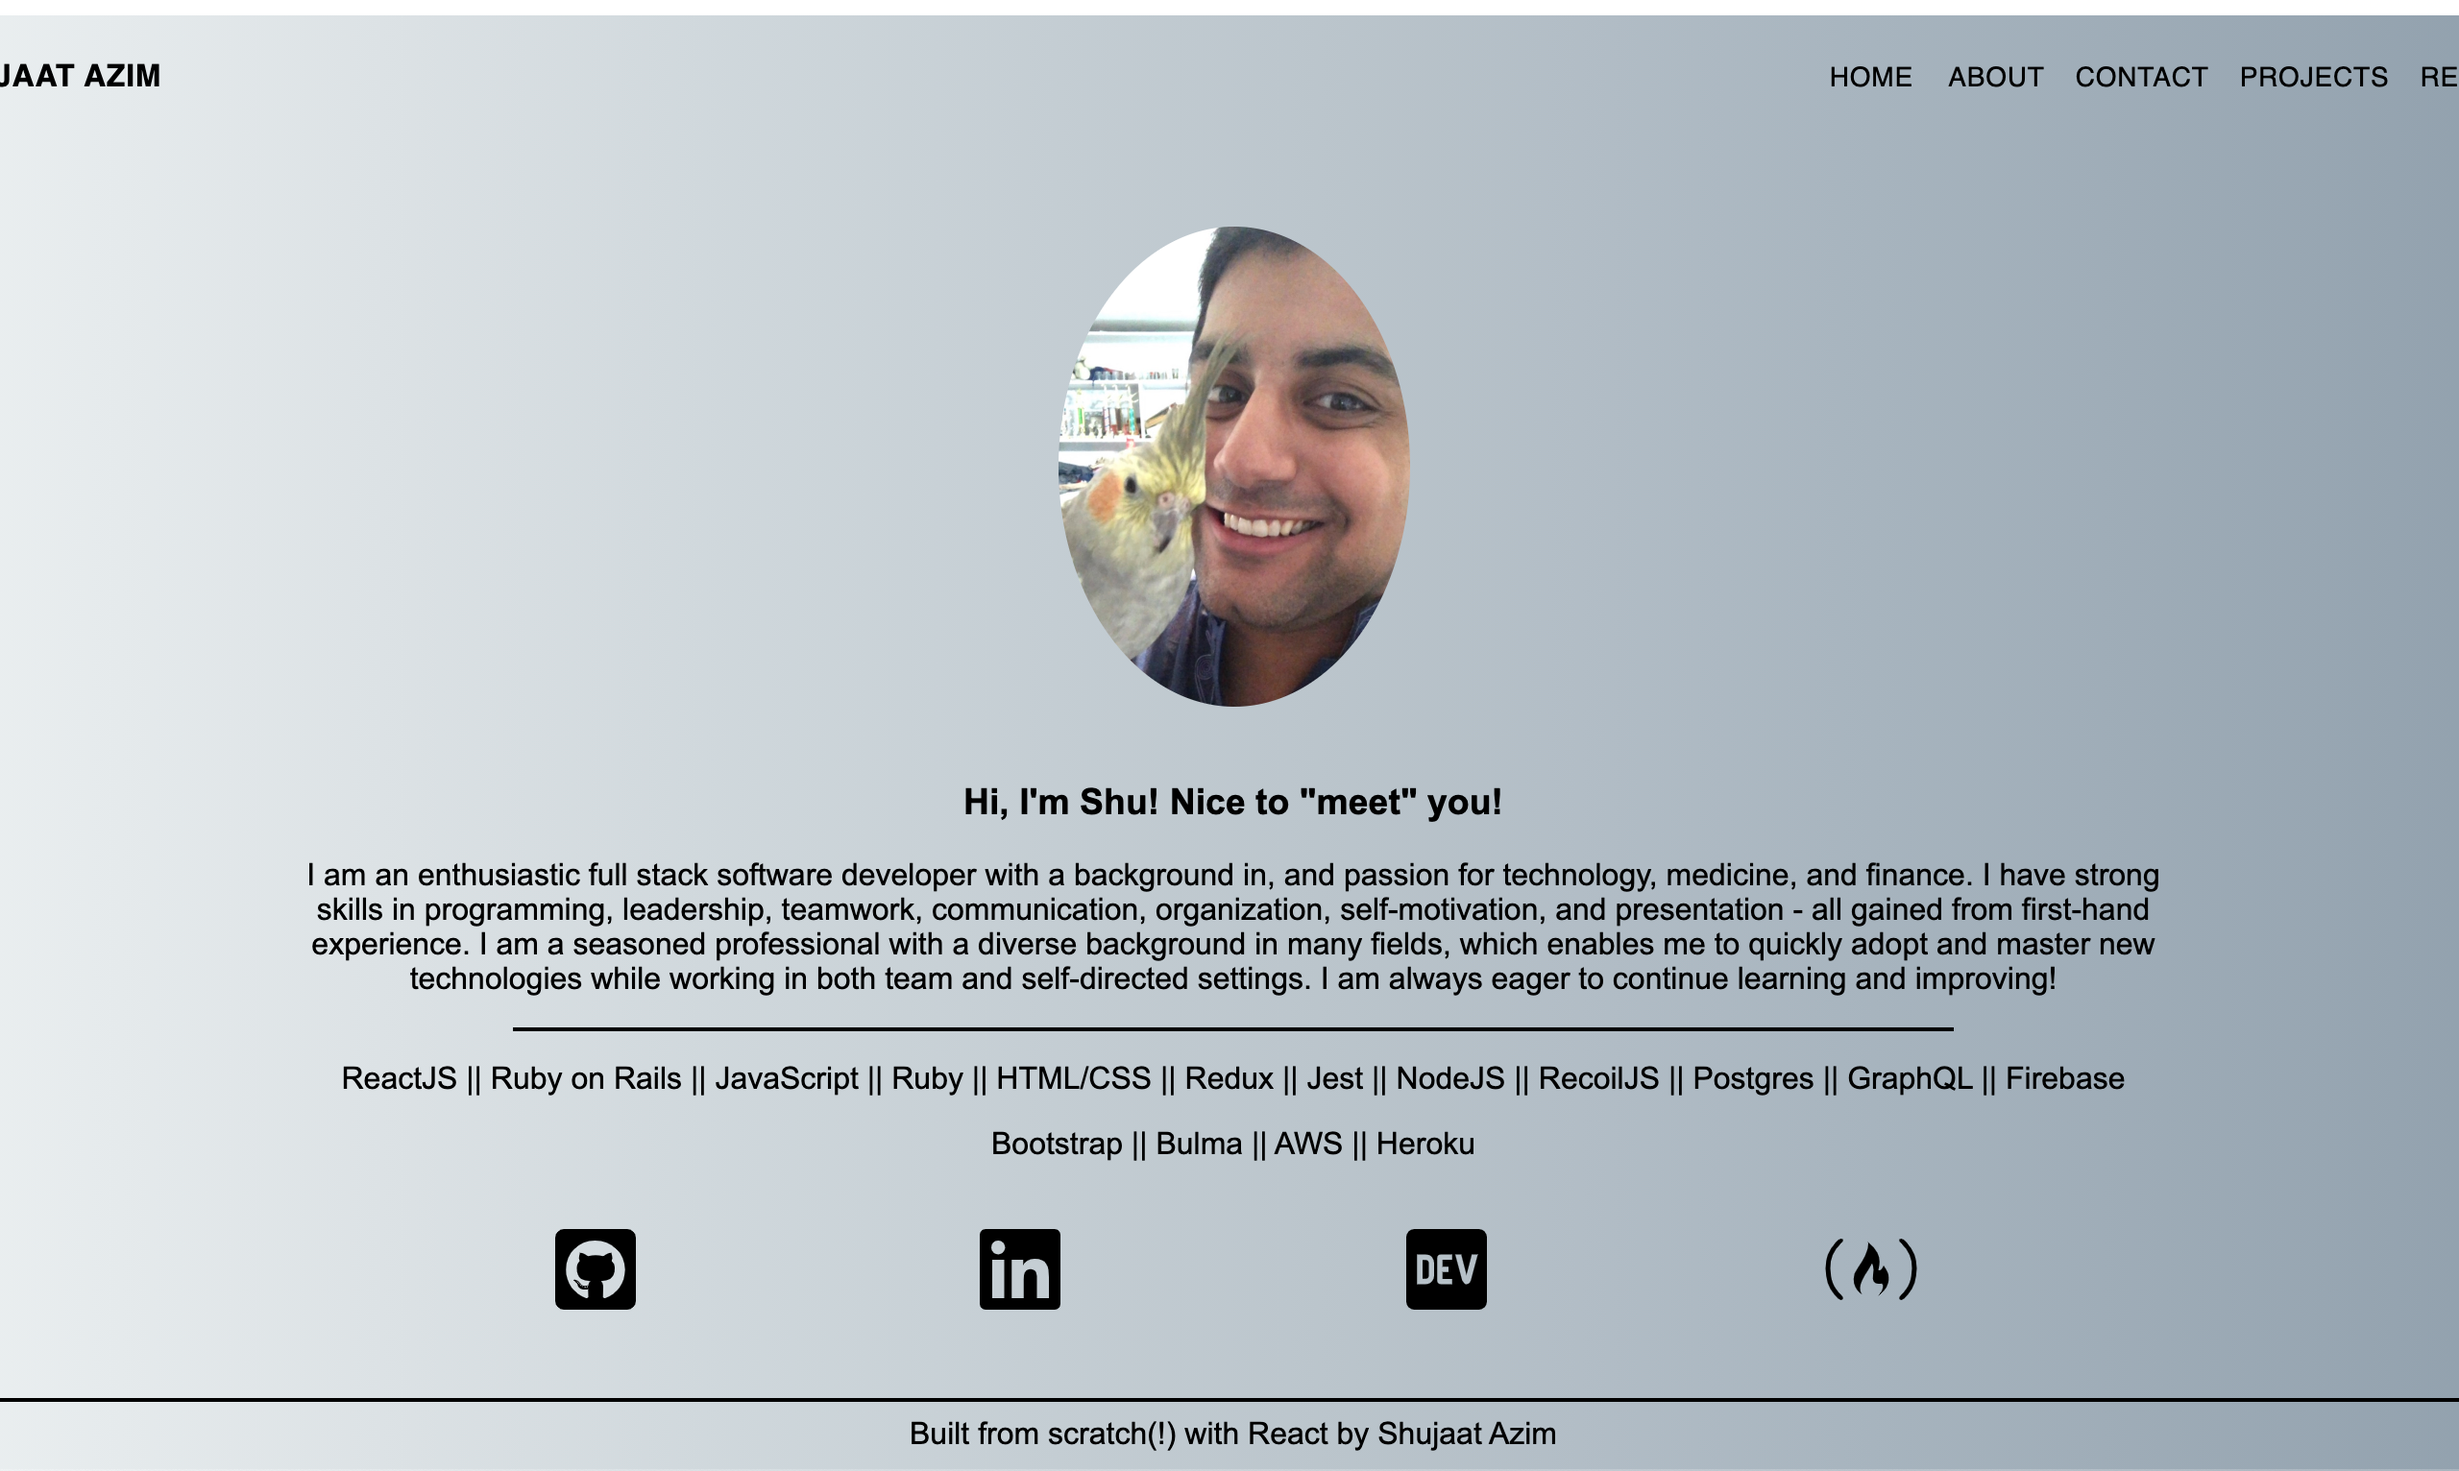
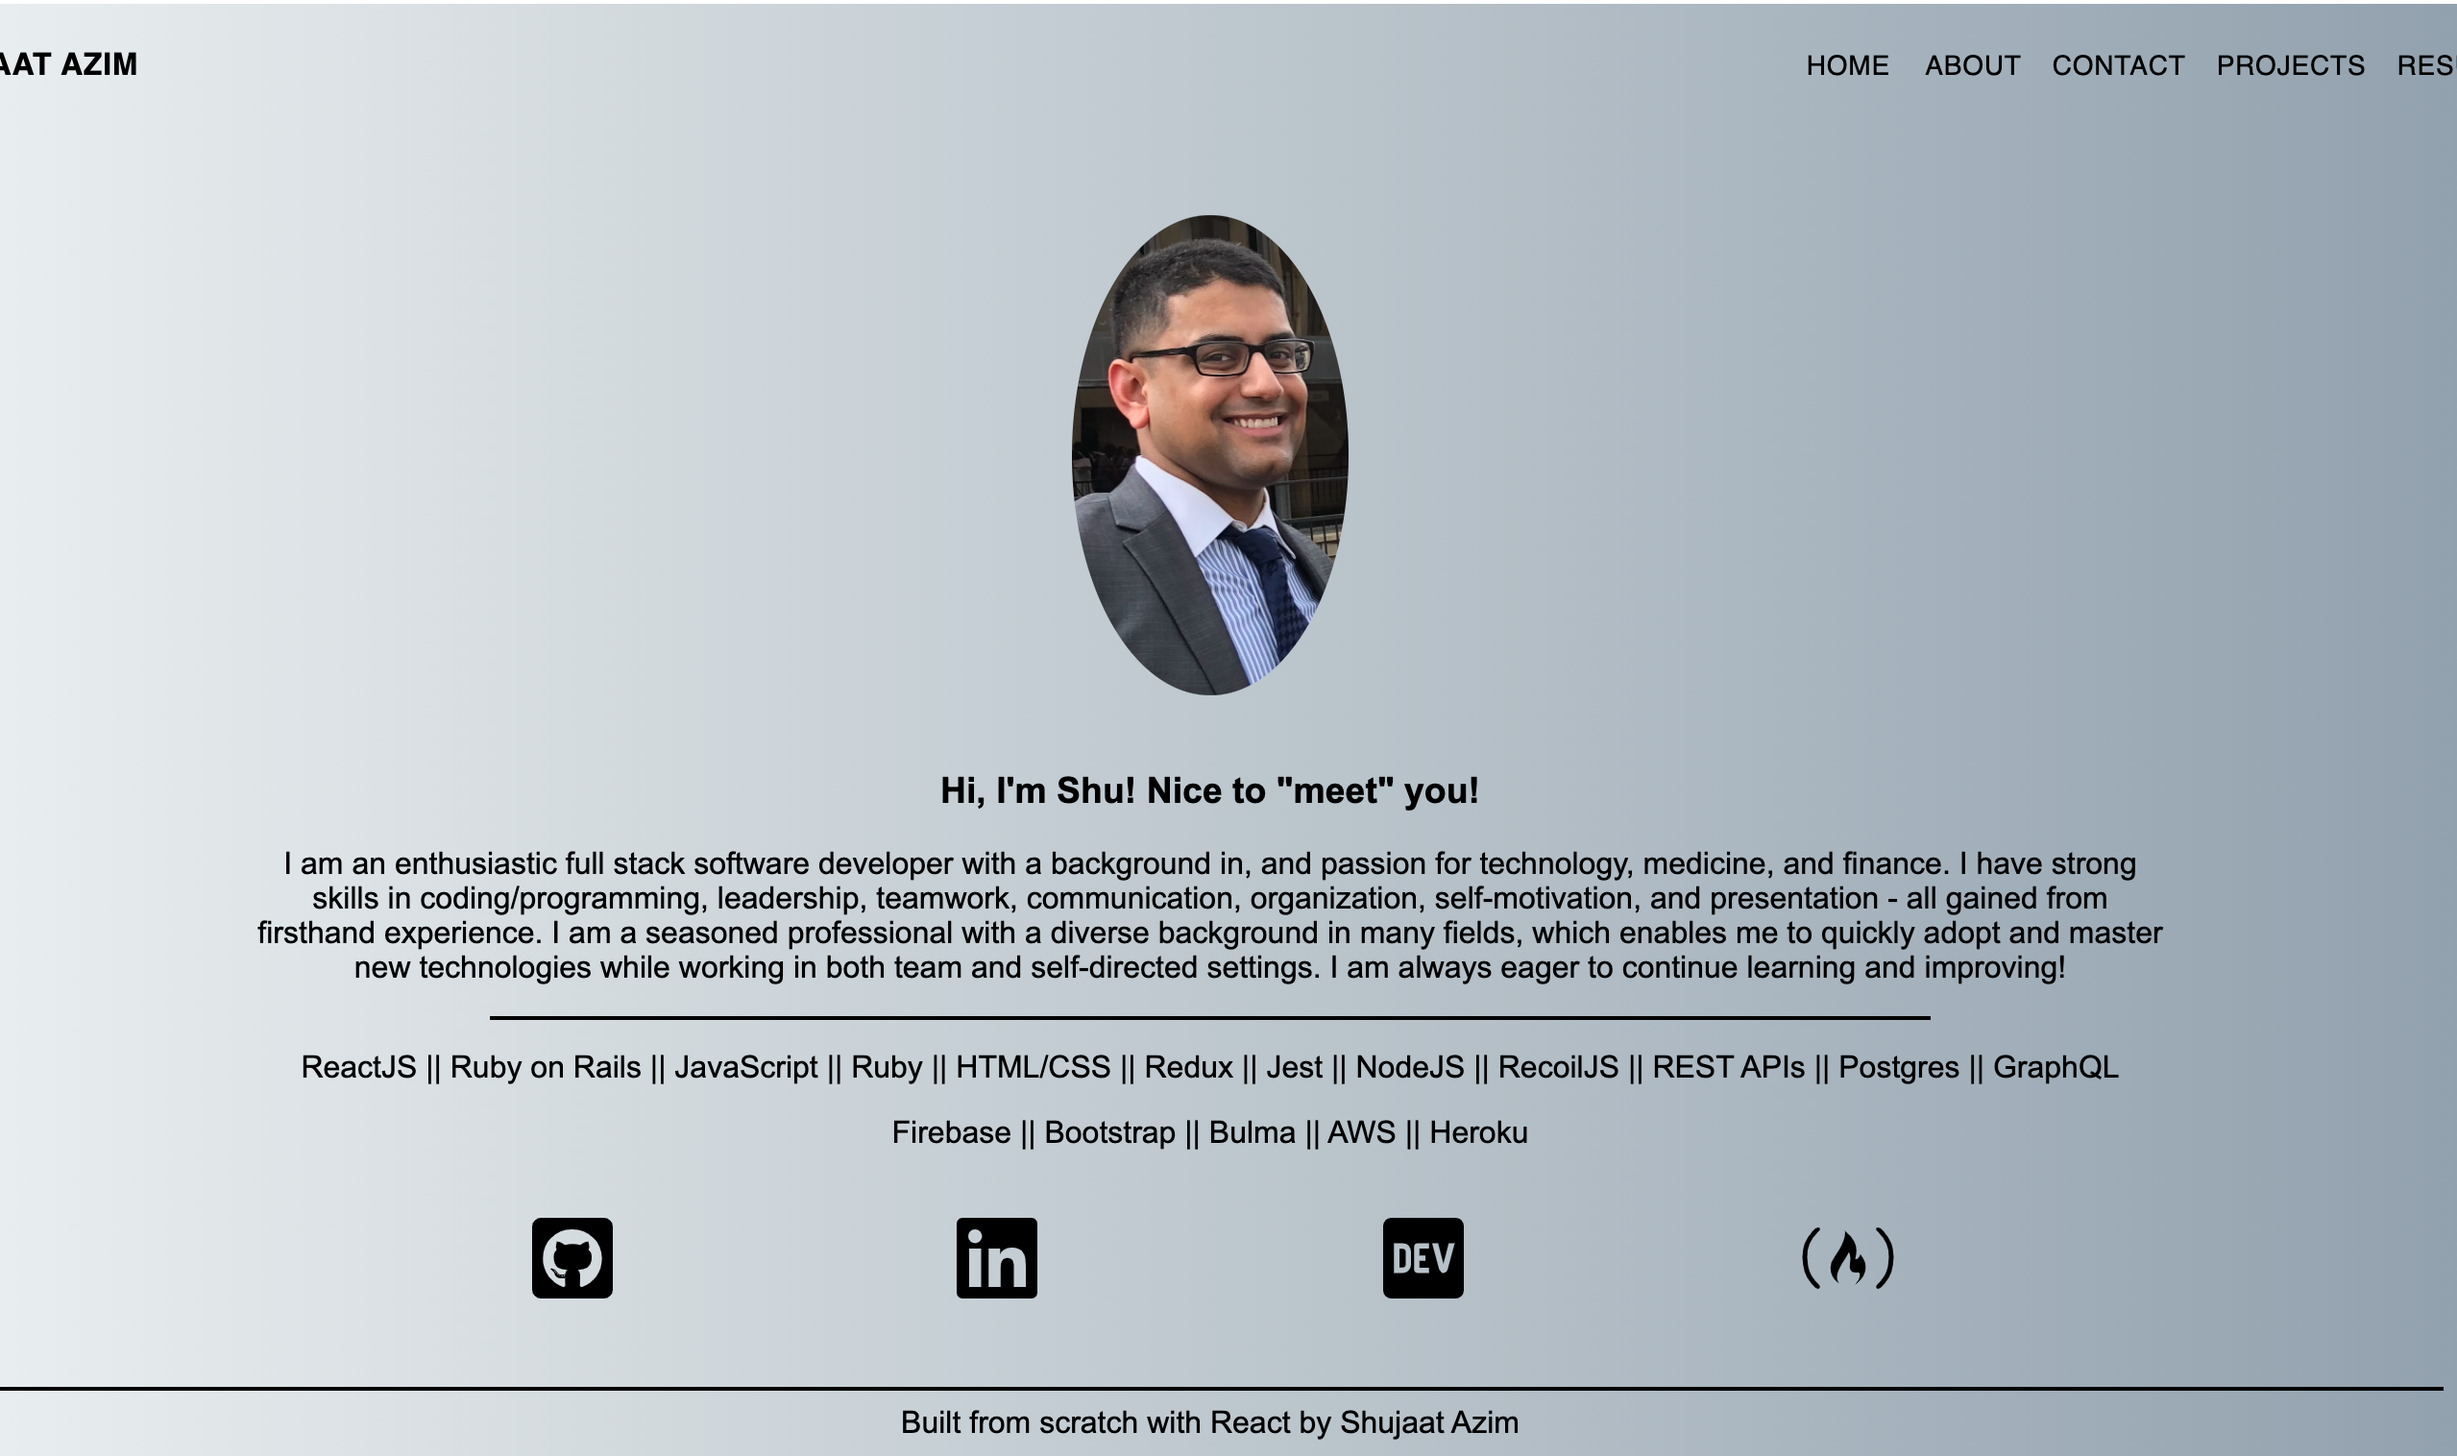
Added pictures to about page, and changed all professional pics. Added new css for pics. Changed projects tab bar from misc to other tech, might add more tabs.

diff --git a/src/Pages/Resume.js b/src/Pages/Resume.js
@@ -3,7 +3,7 @@ import ResumeTabBar from '../Components/ResumeTabBar';
 import ResumeContent from '../Components/ResumeContent';
 import PersonalStatement from '../Components/PersonalStatement';
 import { Grid } from '@material-ui/core';
-import Avatar from '../Images/Avatar.jpg'
+import Professional from '../Images/Professional.png';
 
 const Resume = () => {
 
@@ -14,7 +14,7 @@ const Resume = () => {
       <Grid container>
         <Grid item xs={5}>
           <div className="resume-left">
-            <img className="avatar" style={{ marginTop: "2rem" }}src={Avatar} alt="avatar" />
+            <img className="avatar" style={{ marginTop: "2rem" }} src={Professional} alt="avatar" />
             <h2>Shujaat Azim</h2>
             <h4>Full Stack Developer</h4>
             <hr />

diff --git a/src/Pages/Contact.js b/src/Pages/Contact.js
@@ -2,7 +2,7 @@ import React from 'react';
 import ContactList from '../Components/ContactList';
 import PersonalStatement from '../Components/PersonalStatement';
 import { Grid } from '@material-ui/core';
-import Avatar from '../Images/Avatar.jpg'
+import Professional from '../Images/Professional.png'
 
 const Contact = () => {
   return (
@@ -11,7 +11,7 @@ const Contact = () => {
         <Grid item xs={6}>
           <div>
             <h1>Shujaat Azim</h1>
-            <img className="avatar" src={Avatar} alt="profile" style={{ margin: "1rem" }} />
+            <img className="avatar" src={Professional} alt="profile" style={{ margin: "1rem" }} />
             <PersonalStatement />
           </div>
         </Grid>

diff --git a/src/Pages/Home.js b/src/Pages/Home.js
@@ -2,7 +2,7 @@ import React from 'react';
 import PersonalStatement from '../Components/PersonalStatement';
 import { Grid } from '@material-ui/core';
 import { FaDev, FaFreeCodeCamp, FaGithubSquare, FaLinkedin } from 'react-icons/fa';
-import Avatar from '../Images/Avatar.jpg'
+import Professional from '../Images/Professional.png'
 
 const Home = () => {
   return (
@@ -10,8 +10,8 @@ const Home = () => {
       <Grid container spacing={2}>
         <Grid item xs={12}>
           <img className="avatar" 
-            src={Avatar} 
-            alt="avatar" />
+            src={Professional} 
+            alt="professional avatar" />
         </Grid>
         <Grid item xs={12}>
           <div className="hero">

diff --git a/src/Pages/About.js b/src/Pages/About.js
@@ -1,5 +1,8 @@
 import React from 'react';
 import { Grid } from '@material-ui/core';
+import Professional from '../Images/Professional.png';
+import Avatar from '../Images/Avatar.jpg';
+
 
 const About = () => {
   return (
@@ -21,10 +24,10 @@ const About = () => {
           </p>
         </Grid>
         <Grid xs={4} style={{ textAlign: "center" }}>
-          Picture One
+          <img className="about-pic" src={Professional} alt="professional avatar" />
         </Grid>
         <Grid item xs={4} style={{ textAlign: "center" }}>
-          Picture Two
+          <img className="about-pic" src={Avatar} alt="avatar" />
         </Grid>
         <Grid xs={8}>
           <p>

diff --git a/src/Components/ProjectsTabBar.js b/src/Components/ProjectsTabBar.js
@@ -30,7 +30,7 @@ const ProjectsTabBar = props => {
         <Tab label="Full Stack" icon={<RiStackLine />} />
         <Tab label="React" icon={<RiReactjsFill />} />
         <Tab label="Rails" icon={<SiRails />} />
-        <Tab label="Miscellaneous" icon={<RiQuestionLine />} />
+        <Tab label="Other Tech" icon={<RiQuestionLine />} />
       </Tabs>
     </Paper>
   );

diff --git a/src/App.css b/src/App.css
@@ -145,6 +145,18 @@
   line-height: 1.5;
 }
 
+.about-pic {
+  height: 250px;
+}
+
+.about-pic-rounded {
+  height: 250px;
+  border-top-left-radius: 75%;
+  border-top-right-radius: 75%;
+  border-bottom-left-radius: 75%;
+  border-bottom-right-radius: 75%;
+}
+
 /* Not Found Page */
 
 .notfound {
